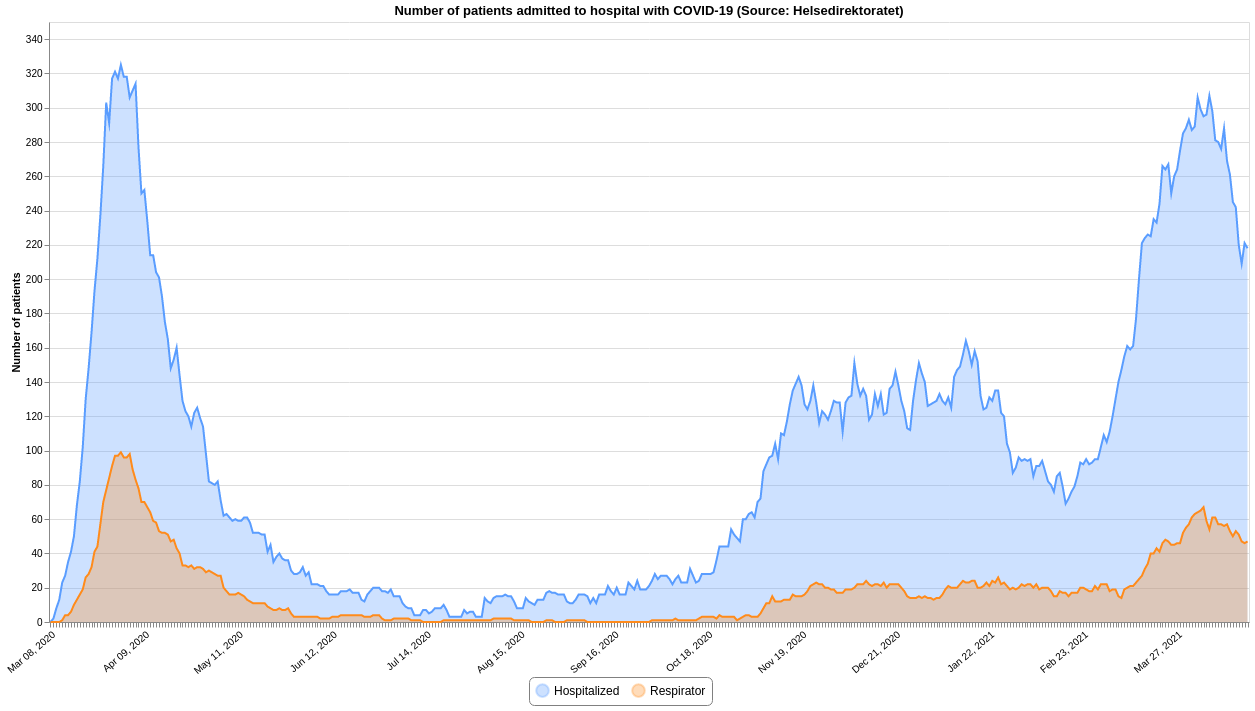
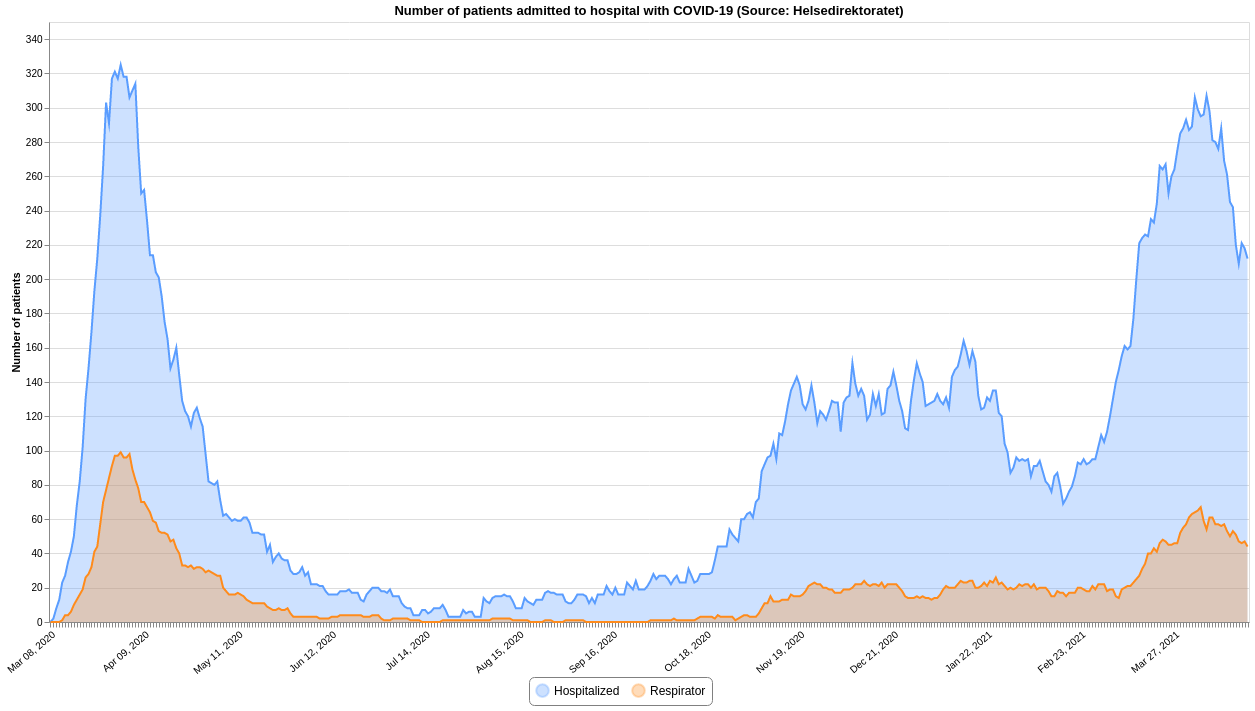
Updated 2021-04-21 13:01

diff --git a/README.md b/README.md
@@ -12,8 +12,8 @@ This repository contains datasets of daily time-series data related to COVID-19 
 | :--- | :--- | :--- | :--- | :--- |
 |[Confirmed](#confirmedcsv)|FHI / MSIS|2021-04-21 09:31:09+02:00|[<center>csv</center>](https://raw.githubusercontent.com/frefrik/c19norge-data/main/data/confirmed.csv)|[<center>preview</center>](data/confirmed.csv)|
 |[Dead](#deadcsv)|FHI|2021-04-20 13:20:50+02:00|[<center>csv</center>](https://raw.githubusercontent.com/frefrik/c19norge-data/main/data/dead.csv)|[<center>preview</center>](data/dead.csv)|
-|[Hospitalized](#hospitalizedcsv)|Helsedirektoratet|2021-04-20 13:00:45+02:00|[<center>csv</center>](https://raw.githubusercontent.com/frefrik/c19norge-data/main/data/hospitalized.csv)|[<center>preview</center>](data/hospitalized.csv)|
-|[Tested](#testedcsv)|FHI|2021-04-20 13:00:43+02:00|[<center>csv</center>](https://raw.githubusercontent.com/frefrik/c19norge-data/main/data/tested.csv)|[<center>preview</center>](data/tested.csv)|
+|[Hospitalized](#hospitalizedcsv)|Helsedirektoratet|2021-04-21 13:00:47+02:00|[<center>csv</center>](https://raw.githubusercontent.com/frefrik/c19norge-data/main/data/hospitalized.csv)|[<center>preview</center>](data/hospitalized.csv)|
+|[Tested](#testedcsv)|FHI|2021-04-21 13:00:45+02:00|[<center>csv</center>](https://raw.githubusercontent.com/frefrik/c19norge-data/main/data/tested.csv)|[<center>preview</center>](data/tested.csv)|
 |[Tested Lab](#tested_labcsv)|FHI|2021-04-20 13:20:45+02:00|[<center>csv</center>](https://raw.githubusercontent.com/frefrik/c19norge-data/main/data/tested_lab.csv)|[<center>preview</center>](data/tested_lab.csv)|
 |[Transport](#transportcsv)|FHI|2021-04-21 11:30:47+02:00|[<center>csv</center>](https://raw.githubusercontent.com/frefrik/c19norge-data/main/data/transport.csv)|[<center>preview</center>](data/transport.csv)|
 |[Vaccine Doses](#vaccine_dosescsv)|FHI|2021-04-20 13:20:51+02:00|[<center>csv</center>](https://raw.githubusercontent.com/frefrik/c19norge-data/main/data/vaccine_doses.csv)|[<center>preview</center>](data/vaccine_doses.csv)|
